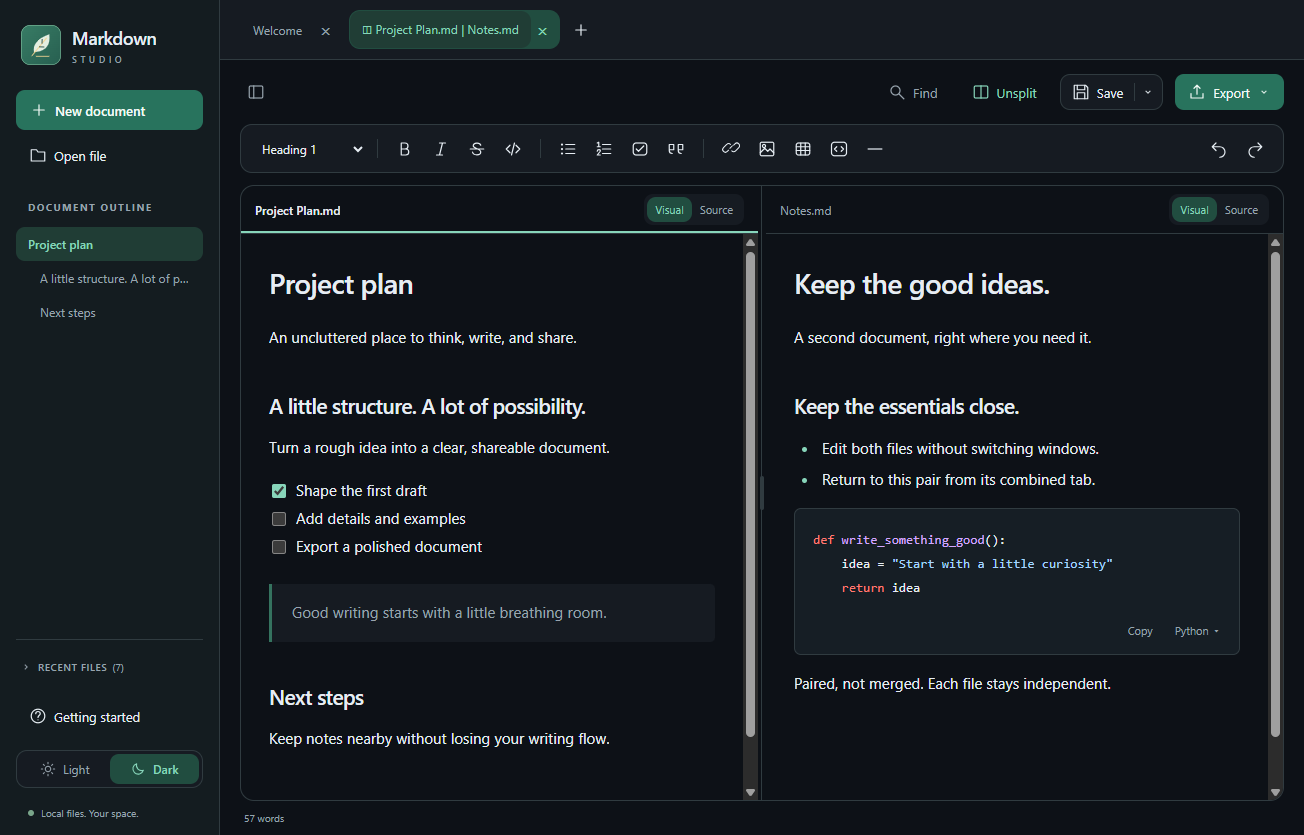
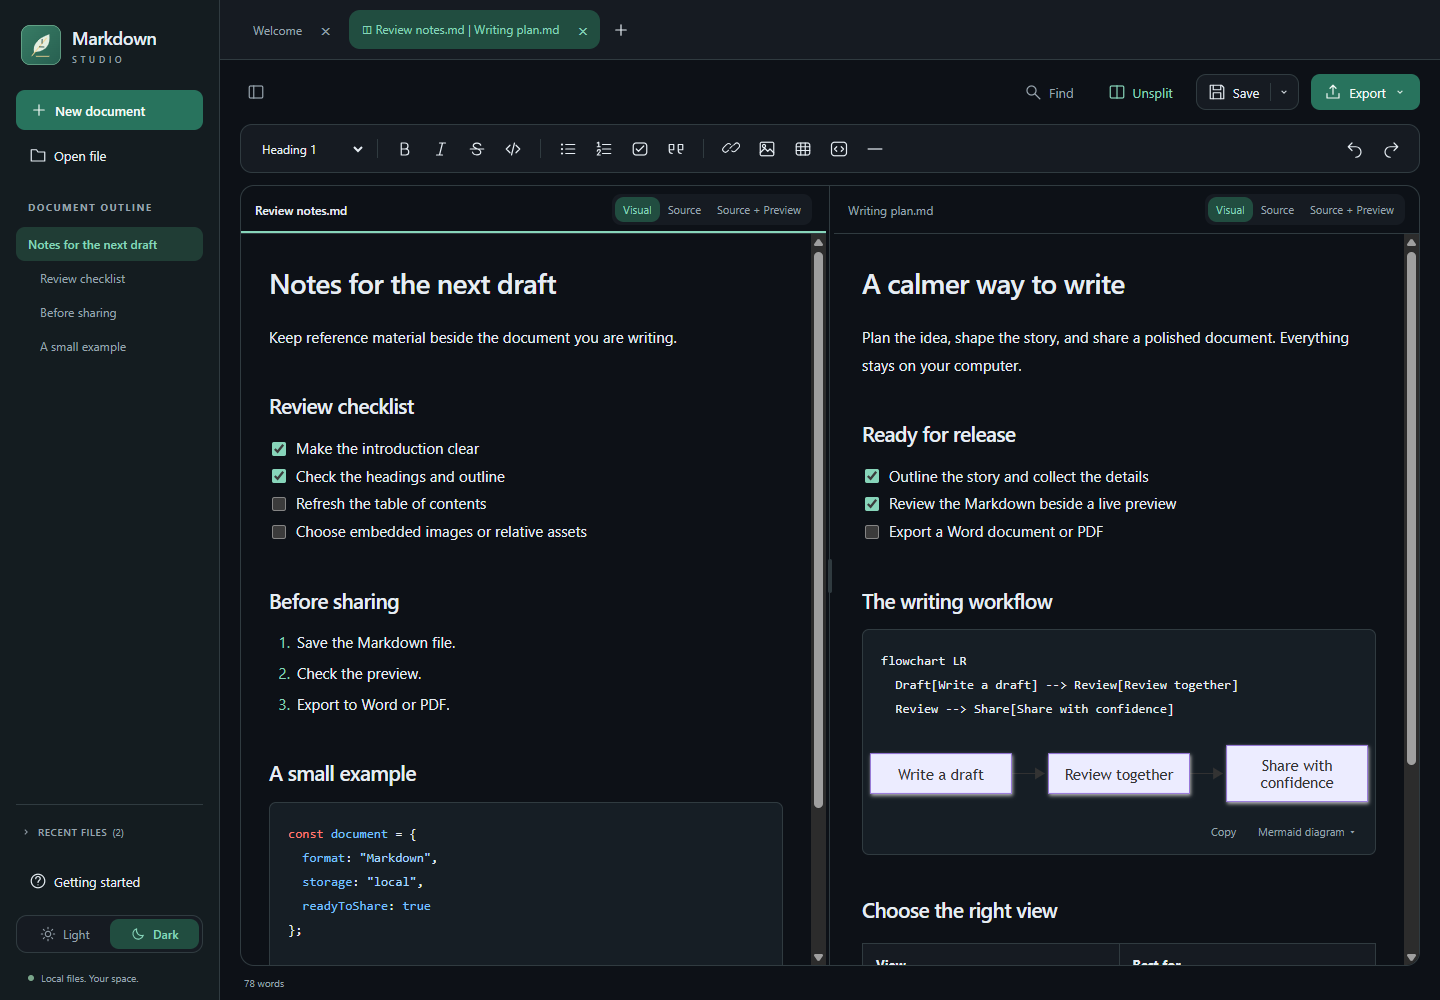
Refresh README with 0.6.0 feature guide and desktop screenshots
Show fresh captures of the actual desktop application using isolated sample documents: Visual writing, Source + Preview with Mermaid, paired Dark view and enhanced Find/Replace. Expand current feature details, everyday writing tools and getting-started steps while preserving installer and unsigned-software guidance.

Verified local links and heading fragments, all four 1440x1000 screenshots, rendered tables and image loading in the browser. No application code or release assets changed.

diff --git a/README.md b/README.md
@@ -2,47 +2,77 @@
 
 # Markdown Studio
 
-A calm, local-first **Windows Markdown editor** with friendly visual editing, a source editor, paired split tabs, and **Word/PDF export**.
+A calm, local-first **Windows Markdown editor** with visual editing, **Source + Preview**, paired split tabs, offline Mermaid diagrams, and **Word/PDF export**.
+
+**[Download the Windows x64 installer (0.6.0)](https://github.com/dennispadia/MarkdownStudio/releases/download/v0.6.0/Markdown-Studio-0.6.0-x64.msi)** · [Release notes and source ZIP](https://github.com/dennispadia/MarkdownStudio/releases/tag/v0.6.0) · [User guide](docs/USER_GUIDE.md)
+
+The installer includes the desktop runtime. No Node.js, Word, Pandoc, or account is required. **The installer is unsigned; Windows or your browser may show a warning.**
 
 **Free to use, modify, and fork under MIT. Shared as-is, with no support or promised maintenance.** Want another feature? Fork the project and build it yourself, optionally with an AI coding assistant. See [SUPPORT.md](SUPPORT.md) and [CONTRIBUTING.md](CONTRIBUTING.md).
 
-## See it in action
+## What's new in 0.6.0
 
-These are screenshots of the actual desktop application, using sample documents.
+All five additions below are included in the published **0.6.0 installer**, not just the source checkout.
 
-### Light: a focused writing space
+| Feature | What you can do |
+| --- | --- |
+| **Source + Preview** | Edit Markdown alongside a read-only live rendering of the same document. Optionally synchronize scrolling in either direction. Each side of a two-file pair can also use this mode. |
+| **Enhanced Find/Replace** | Search with match-case, Unicode whole-word, or regex options. Navigate Previous/Next, see counts and Source highlights, and replace the current match or all matches. Regex replacements support capture groups; expensive searches stop after two seconds instead of blocking the editor. |
+| **Refreshable table of contents** | Use **Insert > Table of contents**, then **Insert > Update table of contents** after changing headings. The marked contents block keeps its links up to date without replacing surrounding source. Duplicate headings receive distinct anchors. |
+| **Image storage choice** | Insert, paste, or drop a supported image, then choose an embedded image or a relative file in the document's **assets** folder. Save the document first to use relative assets; keep that folder with the Markdown when sharing. |
+| **Offline Mermaid diagrams** | Use **Insert > Mermaid diagram** for a starter, or write a fenced `mermaid` block. Supported diagrams render locally in Visual and Preview and become images in Word/PDF exports. Invalid or unsupported diagrams show an explicit error. |
 
-![Markdown Studio in Light theme, showing the visual editor, document outline, collapsible recent files, and sidebar theme switch](docs/images/light.png)
+See the [user guide](docs/USER_GUIDE.md#editing-features) for search options and limits, and [Mermaid diagrams](docs/USER_GUIDE.md#mermaid-diagrams) for supported diagram families and restrictions.
+
+## See 0.6.0 in action
+
+Fresh captures of the actual **0.6.0 desktop application**, using sample documents in an isolated profile. These are app screenshots, not mockups; no personal documents are shown.
+
+### Source + Preview: Markdown and the result together
+
+The editable source is on the left; the read-only preview on the right renders the table and Mermaid flowchart. **Sync scrolling** can be turned off.
+
+![Markdown Studio 0.6.0 in Light theme with editable Markdown beside its read-only live preview, a rendered Mermaid workflow, a table, and the Sync scrolling option](docs/images/source-preview.png)
+
+### Visual writing: checklists, formatting, and diagrams
+
+Write naturally in Light theme with the document outline, interactive task checkboxes, formatting controls, and editable Mermaid source with its rendered diagram.
+
+![Markdown Studio 0.6.0 Visual editor in Light theme showing a release checklist, Mermaid source and rendered workflow, document outline, and formatting toolbar](docs/images/light.png)
 
 ### Dark: two documents, one paired tab
 
-![Markdown Studio in Dark theme with two independently editable documents side by side in one combined tab](docs/images/dark-split.png)
+Keep reference notes beside a draft. Both panes are editable and have independent mode controls; Find, Save, Export, and the outline follow the active pane.
 
-## Features
+![Markdown Studio 0.6.0 in Dark theme with review notes and a writing plan paired in one tab, independent mode controls, syntax-highlighted code, checklists, and an offline Mermaid diagram](docs/images/dark-split.png)
 
-- **Visual and Source editing:** format naturally or edit the exact Markdown.
-- **Multiple files and paired split tabs:** thumbnail cards help you choose another open document to pair. Two files share one tab; other tabs remain independent. Each pane has its own mode, selection, scroll position, and undo.
-- **Markdown tools:** headings, bold, italics, lists, tasks, tables, links, images, quotes, and code blocks.
-- **Offline syntax highlighting:** searchable code-language selection and per-block Copy.
-- **Word and PDF export:** no Microsoft Word or Pandoc installation required.
-- **Light/Dark themes:** teal accents, a resizable/collapsible sidebar with remembered width, and collapsible recent history that leaves room for the outline.
-- **Keyboard shortcuts:** hover over controls, inspect menu hints, or press **F1**.
-- **Local safeguards:** unsaved-change prompts, external-edit detection, atomic saves, and recovery drafts.
-- **No account, cloud sync, document uploads, or analytics.**
+### Find/Replace: navigate and edit with confidence
 
-### New in 0.6.0
+This example searches for `Word` or `PDF` with a regex, shows both matches in Source, and prepares a capture-group replacement without changing the document.
 
-- **Source + Preview:** edit one document's Markdown alongside a read-only live preview, with optional synchronized scrolling. Two-file paired tabs remain separate.
-- **Enhanced Find/Replace:** match-case, Unicode whole-word, regex capture replacements, Previous/Next, individual/all replacements, match counts and source highlights. Regex work runs in a time-limited worker.
-- **Refreshable contents:** insert a marked table of contents and update its links after changing headings.
-- **Image storage choice:** embed an inserted/pasted/dropped image or save it in the saved document's relative `assets` folder.
-- **Offline Mermaid:** render supported diagrams in Visual/Preview and include them as images in Word/PDF exports; invalid or unsafe diagrams report errors.
+![Markdown Studio 0.6.0 Find/Replace bar with a Word-or-PDF regex, capture-group replacement, match-case and regex controls, match counts, navigation, and highlighted Source results](docs/images/find-replace.png)
+
+## More writing features
+
+| Area | Included tools |
+| --- | --- |
+| **Markdown editing** | Headings, bold, italics, strikethrough, lists, tasks, quotes, links, images, horizontal rules, and code blocks. Use Visual for formatted writing or Source for exact Markdown and unsupported syntax. |
+| **Tables** | Choose rows and columns in the Insert table dialog from the toolbar, right-click menu, or **Ctrl+T**. Add/remove rows and columns in Visual mode. |
+| **Code blocks** | Search the offline language catalog by name or alias, apply syntax highlighting, and copy a block's raw code. Code is displayed, never executed. |
+| **Tabs and paired views** | Open multiple documents; use thumbnail cards to pick a split partner. Resize the divider, work independently in each pane, or unsplit without closing files. Each tab keeps its own selection, scroll position, and undo history. |
+| **Word and PDF export** | Export the active document, including unsaved edits, supported images, syntax-highlighted code, and supported Mermaid diagrams. Export creates a separate file; it does not save the Markdown. |
+| **Workspace and navigation** | Light/Dark themes, a resizable/collapsible sidebar with remembered width, a clickable heading outline, collapsible recent files, word count, and Focus mode (**F9**). |
+| **Keyboard and context menus** | Formatting and file shortcuts, a right-click Markdown menu, tooltips with shortcut hints, and an **F1** keyboard reference. |
+| **File safeguards** | Unsaved-change prompts, external-edit detection, atomic saves, recovery drafts, Save As, and Save All. Recovery is not a backup. |
+| **Local-first privacy** | No account, document uploads, cloud sync, or analytics. Remote images are not downloaded; opening an external web/email link requires confirmation. |
+
+Switching between Visual and Source resets that tab's undo history; switching tabs preserves it. Source + Preview uses the Source history, so returning to Source keeps that history.
 
 ## Install on Windows
 
 **Windows 10/11, x64.** Other operating systems and architectures are not packaged or tested.
 
-**Release status:** **0.6.0** is published with all five enhancements listed above. This release is unsigned while trusted code-signing approval is pending; see the [code signing policy and preparation status](docs/PUBLISHING.md#code-signing-policy-pending).
+**Release status:** **0.6.0** is published with the features shown above. This release is unsigned while trusted code-signing approval is pending; see the [code signing policy and preparation status](docs/PUBLISHING.md#code-signing-policy-pending).
 
 1. **[Download the Windows x64 MSI installer (0.6.0)](https://github.com/dennispadia/MarkdownStudio/releases/download/v0.6.0/Markdown-Studio-0.6.0-x64.msi)**, or open [Releases](https://github.com/dennispadia/MarkdownStudio/releases) for all downloads and release notes.
 2. Double-click the MSI to install for your current Windows user.
@@ -58,7 +88,11 @@ Uninstall through **Windows Settings > Apps > Installed apps**. Your Markdown do
 
 ## Start writing
 
-Open a `.md` file or choose **New document**, write in **Visual** or **Source**, then save. **Export** creates a separate `.docx` or `.pdf`; it does not save the Markdown file. The **Save** arrow provides Save All and Save As.
+1. Open a `.md` file or choose **New document**.
+2. Choose **Visual** for formatted editing, **Source** for Markdown text, or **Source + Preview** to see both the source and its read-only rendering.
+3. Use **Ctrl+F** to search, **Ctrl+T** to insert a table, or **F1** for the keyboard reference.
+4. Save the Markdown with **Ctrl+S**. The **Save** arrow provides Save All and Save As.
+5. Use **Export** to create a separate `.docx` or `.pdf` when ready to share.
 
 Use the [complete user guide](docs/USER_GUIDE.md) for tables, images, split panes, recovery, shortcuts, and export limitations.
 
